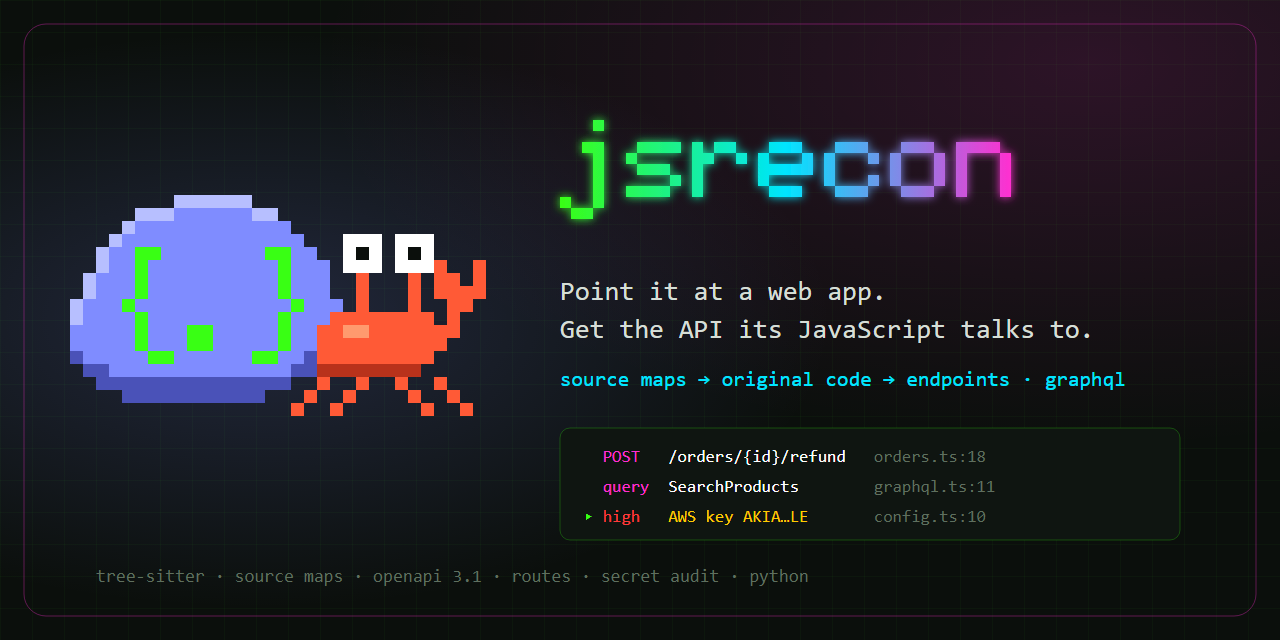
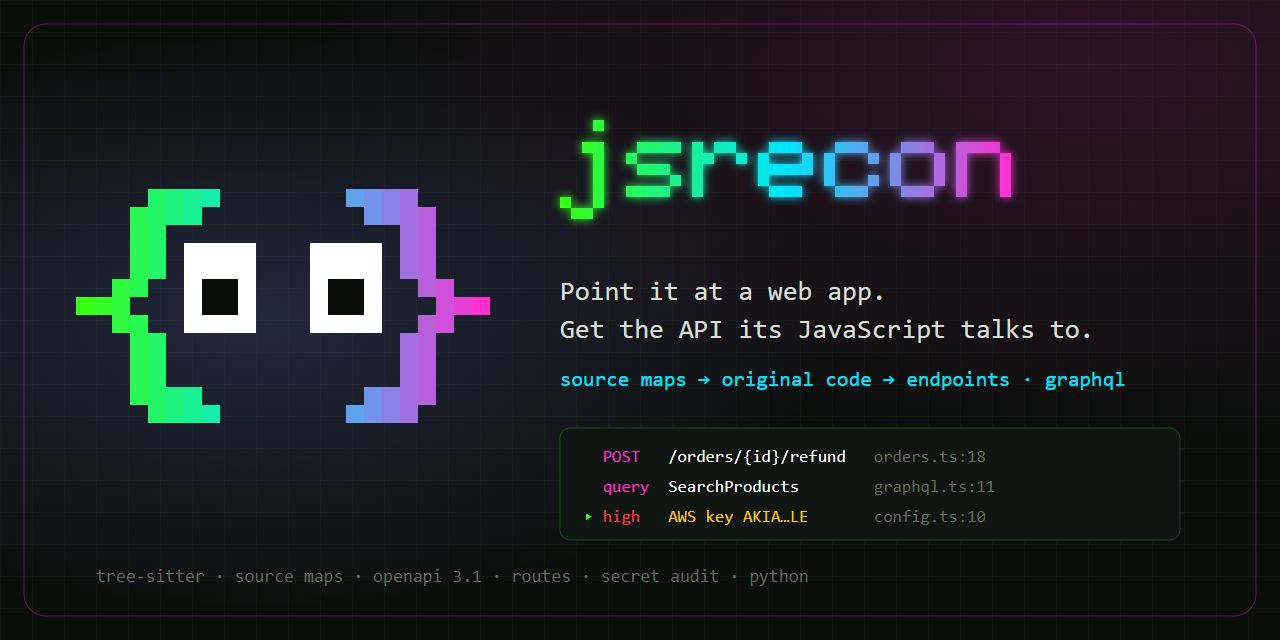
New mascot: a { } visor with eyes that scan the code
Replaces the hermit crab. Same grid drives the animated README logo (eyes scan left/right and blink), the social preview and the 1-bit reel and posts.

Changed region(s): [[0.0312, 0.2812, 0.4062, 0.6875]]

diff --git a/scripts/mascot.py b/scripts/mascot.py
@@ -1,91 +1,95 @@
-"""The jsrecon mascot: a pixel hermit crab living in a `{ }` shell.
+"""The jsrecon mascot: a visor made of `{ }` with two eyes reading the code.
 
-It is the sibling of httpcrabber's crab (same orange, same pixel size): that one
-catches traffic, this one lives inside the bundle. One grid, three uses —
-the animated README logo, the social preview, and the 1-bit reel / posts.
+The braces are the head; the eyes dart left and right like they're scanning a
+bundle. Sibling of httpcrabber's pixel crab (same pixel grid, same palette), and
+one grid serves the animated README logo, the social preview, and the 1-bit reel
+and posts.
 
     python scripts/mascot.py        # preview → build/mascot.png
 """
 
-# . empty   O shell-mate orange   H highlight   D shade   W eye   K pupil
-# S shell   L shell highlight     s shell shade G brace   C cursor (blinks)
-HERMIT = (
-    "........LLLLLL..................",
-    ".....LLLSSSSSSLL................",
-    "....LSSSSSSSSSSSS...............",
-    "...LSSSSSSSSSSSSSS...WWW.WWW....",
-    "..LSSGGSSSSSSSSGGSS..WKW.WKW....",
-    "..LSSGSSSSSSSSSSGSSS.WWW.WWWO..O",
-    ".LSSSGSSSSSSSSSSGSSS..O...O.OO.O",
-    ".LSSSGSSSSSSSSSSGSSS..O...O.OOOO",
-    "LSSSGSSSSSSSSSSSSGSSS.O...O..OO.",
-    "LSSSSGSSSSSSSSSSGSSSOOOOOOOO.O..",
-    "SSSSSGSSSCCSSSSSGSSOOHHOOOOOOO..",
-    "SSSSSGSSSCCSSSSSGSSOOOOOOOOOO...",
-    "sSSSSSGGSSSSSSGGSSsOOOOOOOOO....",
-    ".ssSSSSSSSSSSSSSSssDDDDDDDD.....",
-    "..sssssssssssssss..O..O..O..O...",
-    "....sssssssssss...O..O....O..O..",
-    ".................O..O......O..O.",
+# . empty   G brace (gradient across the width)   W eye   K pupil
+_LEFT = (
+    "....GGGG....",
+    "...GGGG.....",
+    "...GG.......",
+    "...GG.WWWW..",
+    "...GG.WWWW..",
+    "..GG..WKKW..",
+    "GGG...WKKW..",
+    "..GG..WWWW..",
+    "...GG.......",
+    "...GG.......",
+    "...GG.......",
+    "...GGGG.....",
+    "....GGGG....",
 )
+GRID = tuple(row + row[-2::-1] for row in _LEFT)     # mirrored around the centre column
+WIDTH, HEIGHT = len(GRID[0]), len(GRID)
+assert all(len(row) == WIDTH for row in GRID)
 
-COLORS = {
-    "O": "#ff5a36", "H": "#ff9a6e", "D": "#b8321b", "W": "#ffffff", "K": "#0b0f0c",
-    "S": "#7f8cff", "L": "#b7bfff", "s": "#4a52b8", "G": "#39ff14", "C": "#39ff14",
-}
+GRADIENT = ("#39ff14", "#00e5ff", "#ff2fd0")          # the httpcrabber / jsrecon wordmark ramp
+COLORS = {"W": "#ffffff", "K": "#0b0f0c"}
 
-# animation groups for the SVG logo
-EYES = {(c, r) for r in range(3, 6) for c in (21, 22, 23, 25, 26, 27)}
-CLAW_TIP = {(28, 5), (31, 5), (31, 6), (31, 7)}          # pincer tips
-CURSOR = {(c, r) for c in (9, 10) for r in (10, 11)}
-CLAW_CLOSED = {(28, 5): ".", (31, 5): ".", (31, 6): ".", (31, 7): "O", (30, 5): "O", (29, 5): "O"}
-
-WIDTH, HEIGHT = len(HERMIT[0]), len(HERMIT)
-assert all(len(row) == WIDTH for row in HERMIT), [len(r) for r in HERMIT]
+EYE_ROWS = range(3, 8)
+EYES = ((6, 9), (13, 16))                             # (first, last) column of each eye
+PUPIL_ROWS = (5, 6)
 
 
-def cells():
-    for y, row in enumerate(HERMIT):
+def ramp(k: float) -> str:
+    k = min(1.0, max(0.0, k))
+    pos = k * (len(GRADIENT) - 1)
+    i = min(int(pos), len(GRADIENT) - 2)
+    f = pos - i
+    a, b = GRADIENT[i].lstrip("#"), GRADIENT[i + 1].lstrip("#")
+    c = [round(int(a[j:j + 2], 16) + (int(b[j:j + 2], 16) - int(a[j:j + 2], 16)) * f) for j in (0, 2, 4)]
+    return "#{:02x}{:02x}{:02x}".format(*c)
+
+
+def color(x: int, ch: str) -> str:
+    return ramp(x / (WIDTH - 1)) if ch == "G" else COLORS[ch]
+
+
+def grid(look: int = 0, blink: bool = False) -> list[list[str]]:
+    """Rows with the pupils shifted (-1 left, 0 centre, +1 right) or the eyes shut."""
+    rows = [list(r) for r in GRID]
+    for x0, x1 in EYES:
+        for y in EYE_ROWS:
+            for x in range(x0, x1 + 1):
+                rows[y][x] = "W"
+        if blink:
+            for y in EYE_ROWS:
+                for x in range(x0, x1 + 1):
+                    rows[y][x] = "W" if y == 6 else "."
+            continue
+        left = x0 + 1 + look                           # 2×2 pupil, low in the 4×5 eye
+        for y in PUPIL_ROWS:
+            rows[y][left] = rows[y][left + 1] = "K"
+    return rows
+
+
+def cells(look: int = 0, blink: bool = False):
+    for y, row in enumerate(grid(look, blink)):
         for x, ch in enumerate(row):
             if ch != ".":
                 yield x, y, ch
 
 
-def grid(blink: bool = False, snap: bool = False) -> list[list[str]]:
-    """The grid as mutable rows, with eyes shut and/or the claw closed."""
-    rows = [list(r) for r in HERMIT]
-    if blink:
-        for c, r in EYES:
-            rows[r][c] = "W" if r == 4 else "."
-    if snap:
-        for (c, r), ch in CLAW_CLOSED.items():
-            rows[r][c] = ch
-    return rows
-
-
-def onebit(block: int = 10, blink: bool = False, snap: bool = False, cursor: bool = True):
-    """(coverage, tone) arrays for the 1-bit kit (reel, posts): a solid white crab,
-    a diagonally hatched shell, braces cut out in black."""
+def onebit(block: int = 10, look: int = 0, blink: bool = False):
+    """(coverage, tone) arrays for the 1-bit kit (reel, posts): white braces and
+    eyes, black pupils."""
     import numpy as np
 
-    rows = grid(blink, snap)
-    h, w = len(rows) * block, len(rows[0]) * block
-    cov = np.zeros((h, w), np.float32)
-    tone = np.zeros((h, w), np.float32)
-    yy, xx = np.mgrid[0:block, 0:block]
-    step = max(2, block // 6)
-    hatch = (((xx + yy) // step) % 2 == 0).astype(np.float32)
-    sparse = (((xx + yy) // step) % 3 == 0).astype(np.float32)
-    fill = {"O": 1.0, "W": 1.0, "L": 1.0, "H": 0.55, "D": 0.55, "K": 0.0, "G": 0.0,
-            "C": 1.0 if cursor else None, "S": None, "s": None}
+    rows = grid(look, blink)
+    cov = np.zeros((HEIGHT * block, WIDTH * block), np.float32)
+    tone = np.zeros_like(cov)
     for y, row in enumerate(rows):
         for x, ch in enumerate(row):
             if ch == ".":
                 continue
             sl = (slice(y * block, (y + 1) * block), slice(x * block, (x + 1) * block))
             cov[sl] = 1.0
-            v = fill[ch]
-            tone[sl] = (0.12 + 0.8 * (sparse if ch == "s" else hatch)) if v is None else v
+            tone[sl] = 0.0 if ch == "K" else 1.0
     return cov, tone
 
 
@@ -95,10 +99,14 @@ if __name__ == "__main__":
     from PIL import Image, ImageDraw
 
     px = 16
-    img = Image.new("RGB", (WIDTH * px + 64, HEIGHT * px + 64), "#0b0f0c")
+    frames = [(0, False), (1, False), (-1, False), (0, True)]
+    img = Image.new("RGB", ((WIDTH * px + 48) * len(frames) + 16, HEIGHT * px + 64), "#0b0f0c")
     d = ImageDraw.Draw(img)
-    for x, y, ch in cells():
-        d.rectangle([32 + x * px, 32 + y * px, 32 + (x + 1) * px - 1, 32 + (y + 1) * px - 1], fill=COLORS[ch])
+    for i, (look, blink) in enumerate(frames):
+        ox = 32 + i * (WIDTH * px + 48)
+        for x, y, ch in cells(look, blink):
+            d.rectangle([ox + x * px, 32 + y * px, ox + (x + 1) * px - 1, 32 + (y + 1) * px - 1],
+                        fill=color(x, ch))
     out = Path(__file__).resolve().parent.parent / "build" / "mascot.png"
     out.parent.mkdir(exist_ok=True)
     img.save(out)

diff --git a/scripts/gen_logo.py b/scripts/gen_logo.py
@@ -2,8 +2,8 @@
 
     python scripts/gen_logo.py
 
-assets/logo.svg           — README header, animated: the crab blinks and waves,
-                            the cursor in its `{ }` shell blinks (CSS, plays like a GIF)
+assets/logo.svg           — README header, animated: the `{ }` visor's eyes scan
+                            left and right and blink (CSS, plays like a GIF)
 assets/social-preview.svg — 1280×640 card for link previews (X, Telegram, Discord)
 assets/social-preview.png — the same, rasterised (needs Chrome/Chromium)
 
@@ -20,7 +20,7 @@ from pathlib import Path
 ROOT = Path(__file__).resolve().parent.parent
 sys.path.insert(0, str(Path(__file__).resolve().parent))
 
-from mascot import CLAW_CLOSED, CLAW_TIP, COLORS, CURSOR, EYES, HEIGHT, WIDTH, cells  # noqa: E402
+from mascot import HEIGHT, WIDTH, cells, color  # noqa: E402
 
 OUT = ROOT / "assets"
 BG = "#0b0f0c"
@@ -37,30 +37,21 @@ GLYPHS = {
     "n": [".....", ".....", "XXXX.", "X...X", "X...X", "X...X", "X...X", ".....", "....."],
 }
 
-# closed-eye frame (cell → colour key, "." clears the cell)
-EYES_CLOSED = {(c, r): ("W" if r == 4 else ".") for c, r in EYES}
-
-
 def _rects(items, px: int) -> str:
     return "".join(
-        f'<rect x="{x * px}" y="{y * px}" width="{px}" height="{px}" fill="{COLORS[ch]}"/>'
-        for x, y, ch in items if ch in COLORS)
+        f'<rect x="{x * px}" y="{y * px}" width="{px}" height="{px}" fill="{color(x, ch)}"/>'
+        for x, y, ch in items)
 
 
-def mascot_layers(px: int) -> dict[str, str]:
-    """The mascot split into a still base and the frames that swap."""
-    moving = EYES | CLAW_TIP | CURSOR | set(CLAW_CLOSED)
-    grid = {(x, y): ch for x, y, ch in cells()}
-    return {
-        "base": _rects([(x, y, ch) for (x, y), ch in grid.items() if (x, y) not in moving], px),
-        "eye-open": _rects([(x, y, grid[(x, y)]) for x, y in EYES], px),
-        "eye-closed": _rects([(x, y, ch) for (x, y), ch in EYES_CLOSED.items()], px),
-        "claw-open": _rects([(x, y, grid.get((x, y), ".")) for x, y in CLAW_TIP | set(CLAW_CLOSED)], px),
-        "claw-closed": _rects([(x, y, ch) for (x, y), ch in CLAW_CLOSED.items()]
-                              + [(x, y, grid[(x, y)]) for x, y in CLAW_TIP - set(CLAW_CLOSED)], px),
-        "cursor": _rects([(x, y, grid[(x, y)]) for x, y in CURSOR], px),
-        "cursor-off": _rects([(x, y, "S") for x, y in CURSOR], px),
-    }
+def mascot_layers(px: int) -> str:
+    """Braces, then the eyes: open (whites + a pupil per gaze) swapping with shut."""
+    braces = _rects([c for c in cells() if c[2] == "G"], px)
+    whites = _rects([(x, y, "W") for x, y, ch in cells() if ch in "WK"], px)
+    pupils = {cls: _rects([c for c in cells(look) if c[2] == "K"], px)
+              for cls, look in (("pc", 0), ("pr", 1), ("pl", -1))}
+    shut = _rects([c for c in cells(blink=True) if c[2] == "W"], px)
+    gaze = "".join(f'<g class="{cls}">{rects}</g>' for cls, rects in pupils.items())
+    return f'{braces}<g class="eye-open">{whites}{gaze}</g><g class="eye-closed">{shut}</g>'
 
 
 def mascot_static(px: int) -> str:
@@ -94,32 +85,29 @@ def defs(grad_x1: float, grad_x2: float, grid: int) -> str:
 
 
 ANIM_CSS = """<style>
-    .eye-closed, .claw-closed, .cursor-off { opacity: 0 }
-    .eye-open    { animation: blink-o 4.3s step-end infinite }
-    .eye-closed  { animation: blink-c 4.3s step-end infinite }
-    .claw-open   { animation: on-off 3.2s step-end infinite }
-    .claw-closed { animation: off-on 3.2s step-end infinite }
-    .cursor      { animation: cur-o 1.1s step-end infinite }
-    .cursor-off  { animation: cur-c 1.1s step-end infinite }
-    .bob         { animation: bob 1.2s step-end infinite }
+    .eye-closed, .pr, .pl { opacity: 0 }
+    .eye-open   { animation: blink-o 4.3s step-end infinite }
+    .eye-closed { animation: blink-c 4.3s step-end infinite }
+    .pc         { animation: gaze-c 3.6s step-end infinite }
+    .pr         { animation: gaze-r 3.6s step-end infinite }
+    .pl         { animation: gaze-l 3.6s step-end infinite }
+    .bob        { animation: bob 1.2s step-end infinite }
     @keyframes blink-o { 0% {opacity:1} 90% {opacity:0} 94% {opacity:1} }
     @keyframes blink-c { 0% {opacity:0} 90% {opacity:1} 94% {opacity:0} }
-    @keyframes on-off  { 0% {opacity:1} 60% {opacity:0} 66% {opacity:1} 72% {opacity:0} 78% {opacity:1} }
-    @keyframes off-on  { 0% {opacity:0} 60% {opacity:1} 66% {opacity:0} 72% {opacity:1} 78% {opacity:0} }
-    @keyframes cur-o   { 0% {opacity:1} 50% {opacity:0} }
-    @keyframes cur-c   { 0% {opacity:0} 50% {opacity:1} }
+    @keyframes gaze-c  { 0% {opacity:1} 35% {opacity:0} 55% {opacity:1} 70% {opacity:0} 90% {opacity:1} }
+    @keyframes gaze-r  { 0% {opacity:0} 35% {opacity:1} 55% {opacity:0} }
+    @keyframes gaze-l  { 0% {opacity:0} 70% {opacity:1} 90% {opacity:0} }
     @keyframes bob     { 0% {transform:translateY(0)} 50% {transform:translateY(-PXpx)} }
   </style>"""
 
 
 def logo() -> str:
-    w, h, px, wpx = 880, 240, 7, 8
+    w, h, px, wpx = 880, 240, 9, 8
     m_w, m_h = WIDTH * px, HEIGHT * px
-    mx, my = 50, (h - m_h) // 2 + 6
+    mx, my = 50, (h - m_h) // 2
     word, word_w = wordmark("jsrecon", wpx, "url(#word)")
     wx, wy = mx + m_w + 56, 40
-    layers = mascot_layers(px)
-    mascot = "".join(f'<g class="{k}">{v}</g>' if k != "base" else v for k, v in layers.items())
+    mascot = mascot_layers(px)
     return f"""<svg xmlns="http://www.w3.org/2000/svg" width="{w}" height="{h}" viewBox="0 0 {w} {h}" role="img" aria-label="jsrecon">
   <title>jsrecon</title>
   {ANIM_CSS.replace("PX", str(px // 2))}
@@ -143,15 +131,15 @@ def _row(y: int, cells_: list[tuple[str, str, int]], newest: bool = False) -> st
     sp = "&#160;"
     mark = f'<tspan fill="#39ff14">▸{sp}</tspan>' if newest else f"<tspan>{sp * 2}</tspan>"
     parts = []
-    for text, color, width in cells_:
-        parts.append(f'<tspan fill="{color}">{text.ljust(width).replace(" ", sp)}</tspan>')
+    for text, fill, width in cells_:
+        parts.append(f'<tspan fill="{fill}">{text.ljust(width).replace(" ", sp)}</tspan>')
     return f'<text x="584" y="{y}">{mark}{"".join(parts)}</text>'
 
 
 def social() -> str:
-    w, h, px, wpx = 1280, 640, 13, 11
+    w, h, px, wpx = 1280, 640, 18, 11
     m_h = HEIGHT * px
-    mx, my = 70, (h - m_h) // 2 - 14
+    mx, my = 76, (h - m_h) // 2 - 14
     word, word_w = wordmark("jsrecon", wpx, "url(#word)")
     wx, wy = 560, 120
     dim = "#5f6f5f"
